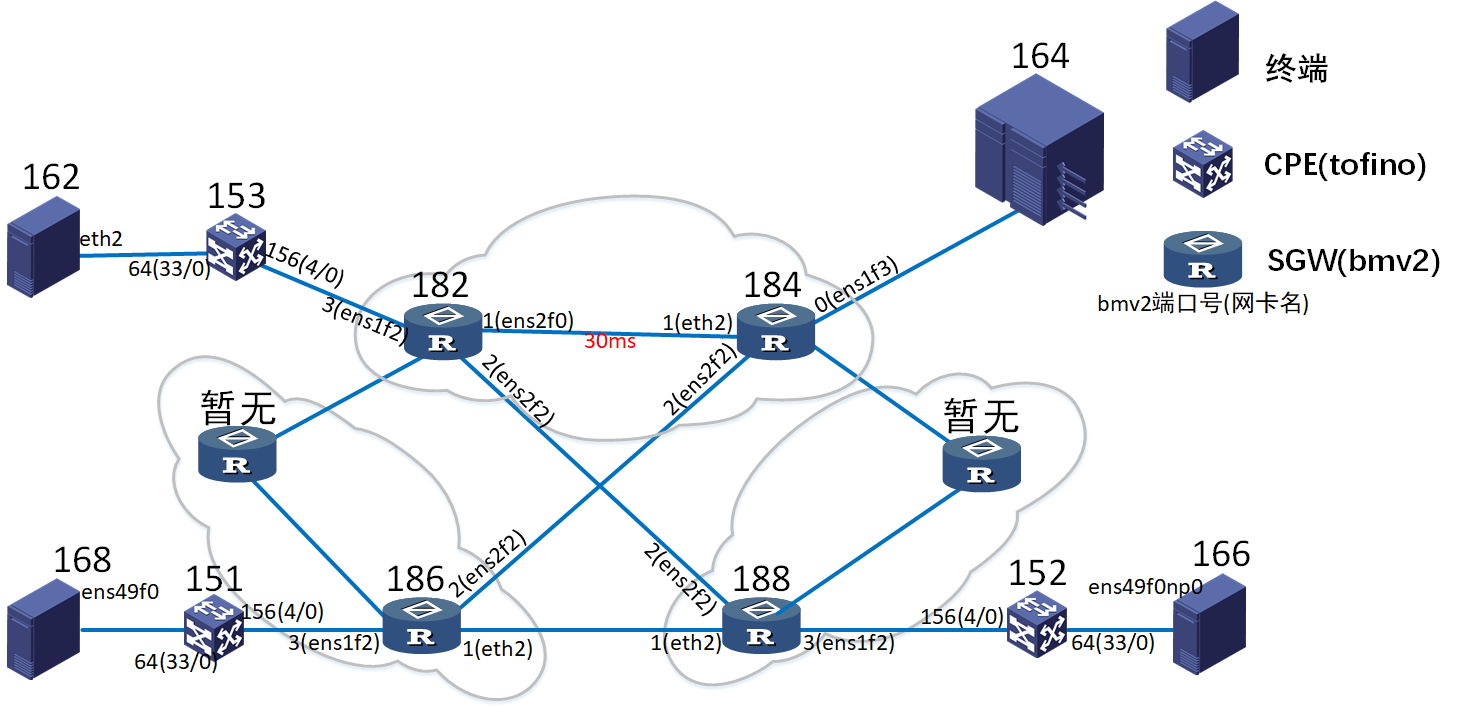
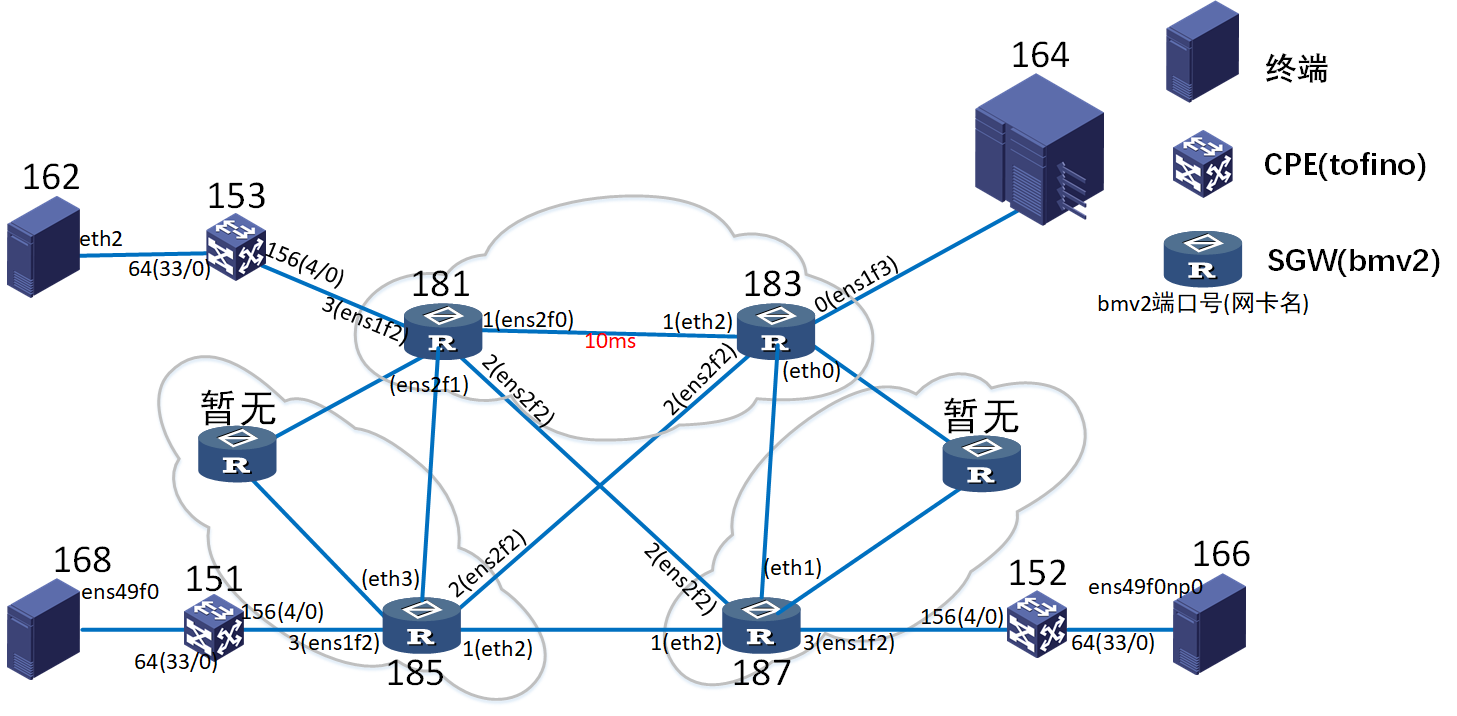
更新实验拓扑，更新readme程序启动方式，更新流表下发日志位置

diff --git a/controller/src/cpe_table/__main__.py b/controller/src/cpe_table/__main__.py
@@ -11,7 +11,7 @@ from collections import defaultdict
 from sqlmodel import select,Session
 from pathlib import Path
 
-log_path=Path(__file__).parent.parent/'log'
+log_path=Path(__file__).parent.parent.parent/'log'
 
 codes=defaultdict(list)
 stdouts=defaultdict(list)
@@ -46,6 +46,7 @@ for i in hosts:
 #对于route表的每一行，下发select_srv6_path
 routes = hosts=session.exec(select(Route)).all()
 for i in routes:
+    print(f"\n\n下发{i.name} 流表\n")
     src_cpe = session.exec(select(Cpe).where(Cpe.id==i.src_cpe_id)).one()
     dst_cpe = session.exec(select(Cpe).where(Cpe.id==i.dst_cpe_id)).one()
     code = cpe_table.select_srv6_path.add_with_srv6_insert(

diff --git a/README.md b/README.md
@@ -5,6 +5,7 @@
 代码基于python3。
 ### 安装依赖
 ```bash
+sudo apt install sqlite3
 sudo apt install python3.8-venv
 sudo apt install pipx
 pipx install pdm
@@ -22,12 +23,12 @@ sqlite3 database.db < ./src/网络拓扑.sql
 
 ### 启动
 ```bash
-pdm venv activate
+source .venv/bin/activate
 #下发初始流表
 python -m src.cpe_table
 #启动int
-python -m src.int.send
-python -m src.int.receive
+sudo ./.venv/bin/python -m src.int.send
+sudo ./.venv/bin/python -m src.int.receive
 #启动展示页面
 streamlit run ./src/app/main.py --server.address 0.0.0.0 --server.port 8888
 ```
